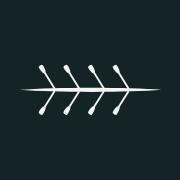
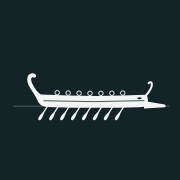
Make the oars Roman: a galley rowing as one
The mark is now a Roman warship in profile, with a bronze ram, a curled
stern, shields along the rail and a bank of oars that all pull the same
way. On load the oars take one stroke and the galley surges ahead,
except for people who prefer less motion. Business cards get slim,
leaf-shaped ancient oar blades in their colors. The tab icon, phone
icon and link-preview picture are redrawn to match.

Claude-Session: https://claude.ai/code/session_01GXu44i44AT8i2zcdL7dDuK

Changed region(s): [[0.0833, 0.3611, 0.9444, 0.6667], [0.6111, 0.3611, 0.6667, 0.4167]]

diff --git a/docs/index.html b/docs/index.html
@@ -51,7 +51,7 @@
 <body>
 <a class="skip" href="#main">Skip to content</a>
 <svg class="defs" aria-hidden="true" focusable="false">
-  <defs><clipPath id="blade-clip"><path d="M60 12C64 4 76 3 89 4Q95 4 95 9L95 15Q95 20 89 20C76 21 64 20 60 12Z"/></clipPath></defs>
+  <defs><clipPath id="blade-clip"><path d="M46 12C56 8.4 72 6.6 86 7.2C93 7.5 97 9.6 97 12C97 14.4 93 16.5 86 16.8C72 17.4 56 15.6 46 12Z"/></clipPath></defs>
 </svg>
 
 <div class="page">
@@ -61,17 +61,29 @@
   </nav>
   <main class="main" id="main">
 <header class="hero">
-<svg class="mark" viewBox="0 0 240 100" aria-hidden="true" focusable="false">
-  <g class="boat">
-    <path class="hull" d="M6 50C60 45.6 180 45.2 236 50C180 54.8 60 54.4 6 50Z"/>
-    <g class="scull t"><line class="shaft" x1="62" y1="47" x2="62" y2="18.5"/><path class="blade-shape" d="M62 19.5C58.6 18 58.1 11.5 58.2 6.6Q58.2 4 60.5 4L63.5 4Q65.8 4 65.8 6.6C65.9 11.5 65.4 18 62 19.5Z"/></g>
-    <g class="scull b"><line class="shaft" x1="62" y1="53" x2="62" y2="81.5"/><path class="blade-shape" d="M62 80.5C58.6 82 58.1 88.5 58.2 93.4Q58.2 96 60.5 96L63.5 96Q65.8 96 65.8 93.4C65.9 88.5 65.4 82 62 80.5Z"/></g>
-    <g class="scull t"><line class="shaft" x1="102" y1="47" x2="102" y2="18.5"/><path class="blade-shape" d="M102 19.5C98.6 18 98.1 11.5 98.2 6.6Q98.2 4 100.5 4L103.5 4Q105.8 4 105.8 6.6C105.9 11.5 105.4 18 102 19.5Z"/></g>
-    <g class="scull b"><line class="shaft" x1="102" y1="53" x2="102" y2="81.5"/><path class="blade-shape" d="M102 80.5C98.6 82 98.1 88.5 98.2 93.4Q98.2 96 100.5 96L103.5 96Q105.8 96 105.8 93.4C105.9 88.5 105.4 82 102 80.5Z"/></g>
-    <g class="scull t"><line class="shaft" x1="142" y1="47" x2="142" y2="18.5"/><path class="blade-shape" d="M142 19.5C138.6 18 138.1 11.5 138.2 6.6Q138.2 4 140.5 4L143.5 4Q145.8 4 145.8 6.6C145.9 11.5 145.4 18 142 19.5Z"/></g>
-    <g class="scull b"><line class="shaft" x1="142" y1="53" x2="142" y2="81.5"/><path class="blade-shape" d="M142 80.5C138.6 82 138.1 88.5 138.2 93.4Q138.2 96 140.5 96L143.5 96Q145.8 96 145.8 93.4C145.9 88.5 145.4 82 142 80.5Z"/></g>
-    <g class="scull t"><line class="shaft" x1="182" y1="47" x2="182" y2="18.5"/><path class="blade-shape" d="M182 19.5C178.6 18 178.1 11.5 178.2 6.6Q178.2 4 180.5 4L183.5 4Q185.8 4 185.8 6.6C185.9 11.5 185.4 18 182 19.5Z"/></g>
-    <g class="scull b"><line class="shaft" x1="182" y1="53" x2="182" y2="81.5"/><path class="blade-shape" d="M182 80.5C178.6 82 178.1 88.5 178.2 93.4Q178.2 96 180.5 96L183.5 96Q185.8 96 185.8 93.4C185.9 88.5 185.4 82 182 80.5Z"/></g>
+<svg class="mark" viewBox="0 0 240 104" aria-hidden="true" focusable="false">
+  <g class="ship">
+    <path class="wave" d="M8 72H236"/>
+    <g class="oar"><line class="loom" x1="64" y1="62" x2="64" y2="84"/><path class="palm" d="M64 82.5C62.1 86 61.5 91.5 61.8 95.4Q62 97.6 64 97.6Q66 97.6 66.2 95.4C66.5 91.5 65.9 86 64 82.5Z"/></g>
+    <g class="oar"><line class="loom" x1="80" y1="62" x2="80" y2="84"/><path class="palm" d="M80 82.5C78.1 86 77.5 91.5 77.8 95.4Q78 97.6 80 97.6Q82 97.6 82.2 95.4C82.5 91.5 81.9 86 80 82.5Z"/></g>
+    <g class="oar"><line class="loom" x1="96" y1="62" x2="96" y2="84"/><path class="palm" d="M96 82.5C94.1 86 93.5 91.5 93.8 95.4Q94 97.6 96 97.6Q98 97.6 98.2 95.4C98.5 91.5 97.9 86 96 82.5Z"/></g>
+    <g class="oar"><line class="loom" x1="112" y1="62" x2="112" y2="84"/><path class="palm" d="M112 82.5C110.1 86 109.5 91.5 109.8 95.4Q110 97.6 112 97.6Q114 97.6 114.2 95.4C114.5 91.5 113.9 86 112 82.5Z"/></g>
+    <g class="oar"><line class="loom" x1="128" y1="62" x2="128" y2="84"/><path class="palm" d="M128 82.5C126.1 86 125.5 91.5 125.8 95.4Q126 97.6 128 97.6Q130 97.6 130.2 95.4C130.5 91.5 129.9 86 128 82.5Z"/></g>
+    <g class="oar"><line class="loom" x1="144" y1="62" x2="144" y2="84"/><path class="palm" d="M144 82.5C142.1 86 141.5 91.5 141.8 95.4Q142 97.6 144 97.6Q146 97.6 146.2 95.4C146.5 91.5 145.9 86 144 82.5Z"/></g>
+    <g class="oar"><line class="loom" x1="160" y1="62" x2="160" y2="84"/><path class="palm" d="M160 82.5C158.1 86 157.5 91.5 157.8 95.4Q158 97.6 160 97.6Q162 97.6 162.2 95.4C162.5 91.5 161.9 86 160 82.5Z"/></g>
+    <g class="oar"><line class="loom" x1="176" y1="62" x2="176" y2="84"/><path class="palm" d="M176 82.5C174.1 86 173.5 91.5 173.8 95.4Q174 97.6 176 97.6Q178 97.6 178.2 95.4C178.5 91.5 177.9 86 176 82.5Z"/></g>
+    <path class="hull" d="M48 55Q125 58.6 203 55.4C205.2 60.8 205.6 66 203 70.6C201 72.6 197 73.2 191 73.4Q125 75.6 58 73C50 73 45 69 43 63C40 56 34 49 30 41C28 36.5 27.4 31.5 29.4 27.6C31.6 23.6 36.6 22.6 40 25.2C41.7 26.5 41.6 28.8 40 29.6C38.3 30.5 36.4 29.1 35.2 29.6C33.2 30.6 33.8 35.6 36.2 40.4C39.4 46.8 43.6 52.4 48 55Z"/>
+    <path class="hull" d="M199 64.5L229.5 69.6L231 71.6L229.5 73.6L199 75.4Z"/>
+    <path class="trim" d="M201.5 57C206.5 51 210.5 45 210.6 40.2C210.7 36.8 207.4 35.9 205.8 38.4"/>
+    <path class="cut" d="M52 64Q125 66.8 199.5 63.8"/>
+    <path class="eye" d="M188.6 60.4C190.6 58.6 194 58.6 196 60.4C194 62.2 190.6 62.2 188.6 60.4Z"/>
+    <circle class="shield" cx="72" cy="52.26" r="3.3"/>
+    <circle class="shield" cx="88" cy="52.71" r="3.3"/>
+    <circle class="shield" cx="104" cy="53.02" r="3.3"/>
+    <circle class="shield" cx="120" cy="53.18" r="3.3"/>
+    <circle class="shield" cx="136" cy="53.2" r="3.3"/>
+    <circle class="shield" cx="152" cy="53.07" r="3.3"/>
+    <circle class="shield" cx="168" cy="52.79" r="3.3"/>
   </g>
 </svg>
   <h1 class="wordmark">Palmulae</h1>

diff --git a/docs/assets/site.css b/docs/assets/site.css
@@ -1,5 +1,5 @@
 /* Palmulae site styles.
-   Layout: the name set like a Latin lexicon entry under a boat whose oars all pull one way, then a rack of
+   Layout: the name set like a Latin lexicon entry under a Roman galley whose oars all pull one way, then a rack of
    business cards, each painted in its own blade colors like oars on a boathouse wall.
    Fonts are served from this site (assets/fonts), so visits reach no other company. */
 
@@ -155,21 +155,23 @@ a:focus-visible { outline: 2px solid var(--accent); outline-offset: 3px; border-
 /* Home: hero */
 .hero { display: grid; gap: 1.1rem; justify-items: start; }
 .hero .mark { margin-bottom: .4rem; }
-/* The mark: a boat seen from above, every oar finishing the same stroke. On load it takes one stroke. */
-.mark { width: clamp(11rem, 30vw, 15rem); height: auto; color: var(--ink); overflow: visible; }
-.mark .hull, .mark .blade-shape { fill: currentColor; }
-.mark .shaft { stroke: currentColor; stroke-width: 2.2; stroke-linecap: round; }
-.scull { transform-box: fill-box; }
-.scull.t { transform-origin: 50% 100%; transform: rotate(-32deg); }
-.scull.b { transform-origin: 50% 0%; transform: rotate(32deg); }
+/* The mark: a Roman galley, ram forward and stern curled, its bank of oars pulling as one.
+   On load the oars take one stroke and the galley surges ahead. */
+.mark { --cut: var(--paper); width: clamp(12rem, 32vw, 16rem); height: auto; color: var(--ink); overflow: visible; }
+.mark .hull, .mark .palm { fill: currentColor; }
+.mark .trim { fill: none; stroke: currentColor; stroke-width: 3; stroke-linecap: round; }
+.mark .loom { stroke: currentColor; stroke-width: 1.8; stroke-linecap: round; }
+.mark .cut { fill: none; stroke: var(--cut); stroke-width: 1.1; }
+.mark .eye { fill: var(--cut); }
+.mark .shield { fill: none; stroke: currentColor; stroke-width: 1.4; }
+.mark .wave { fill: none; stroke: currentColor; stroke-width: 1; stroke-linecap: round; opacity: .4; }
+.oar { transform-box: fill-box; transform-origin: 50% 0%; transform: rotate(32deg); }
 @media (prefers-reduced-motion: no-preference) {
-  .scull.t { animation: stroke-t 1300ms cubic-bezier(.4, .1, .2, 1) 250ms both; }
-  .scull.b { animation: stroke-b 1300ms cubic-bezier(.4, .1, .2, 1) 250ms both; }
-  .boat { animation: surge 1700ms cubic-bezier(.3, .6, .2, 1) 250ms both; }
+  .oar { animation: pull 1300ms cubic-bezier(.4, .1, .2, 1) 250ms both; }
+  .ship { animation: surge 1700ms cubic-bezier(.3, .6, .2, 1) 250ms both; }
 }
-@keyframes stroke-t { from { transform: rotate(40deg); } }
-@keyframes stroke-b { from { transform: rotate(-40deg); } }
-@keyframes surge { from { transform: translateX(-14px); } }
+@keyframes pull { from { transform: rotate(-26deg); } }
+@keyframes surge { from { transform: translateX(-12px); } }
 
 .wordmark {
   margin: .25rem 0 0;

diff --git a/site/static/assets/site.css b/site/static/assets/site.css
@@ -1,5 +1,5 @@
 /* Palmulae site styles.
-   Layout: the name set like a Latin lexicon entry under a boat whose oars all pull one way, then a rack of
+   Layout: the name set like a Latin lexicon entry under a Roman galley whose oars all pull one way, then a rack of
    business cards, each painted in its own blade colors like oars on a boathouse wall.
    Fonts are served from this site (assets/fonts), so visits reach no other company. */
 
@@ -155,21 +155,23 @@ a:focus-visible { outline: 2px solid var(--accent); outline-offset: 3px; border-
 /* Home: hero */
 .hero { display: grid; gap: 1.1rem; justify-items: start; }
 .hero .mark { margin-bottom: .4rem; }
-/* The mark: a boat seen from above, every oar finishing the same stroke. On load it takes one stroke. */
-.mark { width: clamp(11rem, 30vw, 15rem); height: auto; color: var(--ink); overflow: visible; }
-.mark .hull, .mark .blade-shape { fill: currentColor; }
-.mark .shaft { stroke: currentColor; stroke-width: 2.2; stroke-linecap: round; }
-.scull { transform-box: fill-box; }
-.scull.t { transform-origin: 50% 100%; transform: rotate(-32deg); }
-.scull.b { transform-origin: 50% 0%; transform: rotate(32deg); }
+/* The mark: a Roman galley, ram forward and stern curled, its bank of oars pulling as one.
+   On load the oars take one stroke and the galley surges ahead. */
+.mark { --cut: var(--paper); width: clamp(12rem, 32vw, 16rem); height: auto; color: var(--ink); overflow: visible; }
+.mark .hull, .mark .palm { fill: currentColor; }
+.mark .trim { fill: none; stroke: currentColor; stroke-width: 3; stroke-linecap: round; }
+.mark .loom { stroke: currentColor; stroke-width: 1.8; stroke-linecap: round; }
+.mark .cut { fill: none; stroke: var(--cut); stroke-width: 1.1; }
+.mark .eye { fill: var(--cut); }
+.mark .shield { fill: none; stroke: currentColor; stroke-width: 1.4; }
+.mark .wave { fill: none; stroke: currentColor; stroke-width: 1; stroke-linecap: round; opacity: .4; }
+.oar { transform-box: fill-box; transform-origin: 50% 0%; transform: rotate(32deg); }
 @media (prefers-reduced-motion: no-preference) {
-  .scull.t { animation: stroke-t 1300ms cubic-bezier(.4, .1, .2, 1) 250ms both; }
-  .scull.b { animation: stroke-b 1300ms cubic-bezier(.4, .1, .2, 1) 250ms both; }
-  .boat { animation: surge 1700ms cubic-bezier(.3, .6, .2, 1) 250ms both; }
+  .oar { animation: pull 1300ms cubic-bezier(.4, .1, .2, 1) 250ms both; }
+  .ship { animation: surge 1700ms cubic-bezier(.3, .6, .2, 1) 250ms both; }
 }
-@keyframes stroke-t { from { transform: rotate(40deg); } }
-@keyframes stroke-b { from { transform: rotate(-40deg); } }
-@keyframes surge { from { transform: translateX(-14px); } }
+@keyframes pull { from { transform: rotate(-26deg); } }
+@keyframes surge { from { transform: translateX(-12px); } }
 
 .wordmark {
   margin: .25rem 0 0;

diff --git a/tools/render-images.js b/tools/render-images.js
@@ -33,8 +33,8 @@ const rack = [['navy', 'gold'], ['sage', 'navy'], ['maroon', 'white'], ['gold', 
 const ogHtml = page(`
 body { width: 1200px; height: 630px; overflow: hidden; }
 .card { position: relative; width: 1200px; height: 630px; padding: 64px 0 0 88px; }
-.card .mark { width: 230px; display: block; margin-left: -6px; }
-.name { margin-top: 18px; font-family: var(--font-display); font-weight: 500; font-size: 176px; line-height: .82; letter-spacing: -.015em; }
+.card .mark { width: 250px; display: block; margin-left: -10px; }
+.name { margin-top: 10px; font-family: var(--font-display); font-weight: 500; font-size: 176px; line-height: .82; letter-spacing: -.015em; }
 .entry { margin-top: 30px; display: flex; align-items: baseline; gap: 22px; color: var(--ink-soft); }
 .hw { font-family: var(--font-mono); font-size: 23px; letter-spacing: .08em; color: var(--ink); }
 .pos { font-family: var(--font-display); font-style: italic; font-size: 30px; }
@@ -55,8 +55,7 @@ body { width: 1200px; height: 630px; overflow: hidden; }
 
 const touchHtml = page(`
 body { width: 180px; height: 180px; overflow: hidden; background: var(--ink); display: grid; place-items: center; }
-body .mark { width: 148px; color: var(--paper); }
-body .mark .shaft { stroke-width: 3; }
+body .mark { --cut: var(--ink); width: 164px; color: var(--paper); margin-top: 6px; }
 `, mark);
 
 const iconHtml = size => `<!doctype html><html lang="en"><head><meta charset="utf-8"><style>

diff --git a/docs/404.html b/docs/404.html
@@ -28,7 +28,7 @@
 <body>
 <a class="skip" href="#main">Skip to content</a>
 <svg class="defs" aria-hidden="true" focusable="false">
-  <defs><clipPath id="blade-clip"><path d="M60 12C64 4 76 3 89 4Q95 4 95 9L95 15Q95 20 89 20C76 21 64 20 60 12Z"/></clipPath></defs>
+  <defs><clipPath id="blade-clip"><path d="M46 12C56 8.4 72 6.6 86 7.2C93 7.5 97 9.6 97 12C97 14.4 93 16.5 86 16.8C72 17.4 56 15.6 46 12Z"/></clipPath></defs>
 </svg>
 
 <div class="page">

diff --git a/docs/privacy/index.html b/docs/privacy/index.html
@@ -28,7 +28,7 @@
 <body>
 <a class="skip" href="#main">Skip to content</a>
 <svg class="defs" aria-hidden="true" focusable="false">
-  <defs><clipPath id="blade-clip"><path d="M60 12C64 4 76 3 89 4Q95 4 95 9L95 15Q95 20 89 20C76 21 64 20 60 12Z"/></clipPath></defs>
+  <defs><clipPath id="blade-clip"><path d="M46 12C56 8.4 72 6.6 86 7.2C93 7.5 97 9.6 97 12C97 14.4 93 16.5 86 16.8C72 17.4 56 15.6 46 12Z"/></clipPath></defs>
 </svg>
 
 <div class="page">

diff --git a/docs/terms/index.html b/docs/terms/index.html
@@ -28,7 +28,7 @@
 <body>
 <a class="skip" href="#main">Skip to content</a>
 <svg class="defs" aria-hidden="true" focusable="false">
-  <defs><clipPath id="blade-clip"><path d="M60 12C64 4 76 3 89 4Q95 4 95 9L95 15Q95 20 89 20C76 21 64 20 60 12Z"/></clipPath></defs>
+  <defs><clipPath id="blade-clip"><path d="M46 12C56 8.4 72 6.6 86 7.2C93 7.5 97 9.6 97 12C97 14.4 93 16.5 86 16.8C72 17.4 56 15.6 46 12Z"/></clipPath></defs>
 </svg>
 
 <div class="page">
